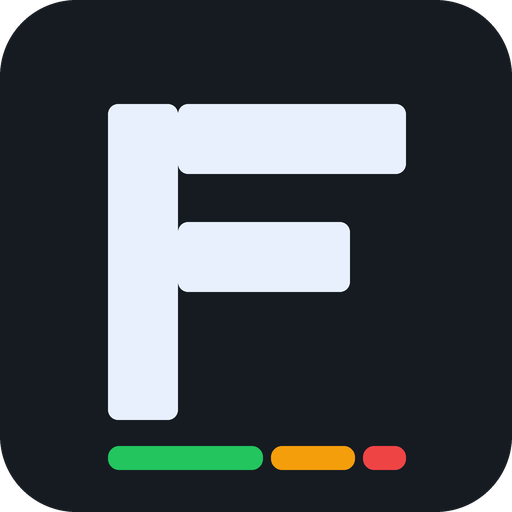
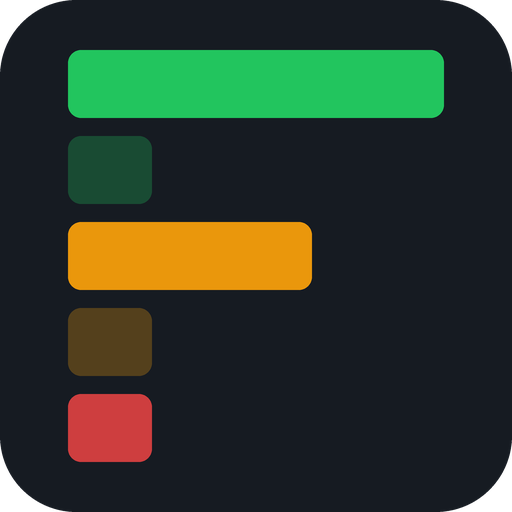
Add files via upload

diff --git a/index.html b/index.html
@@ -524,12 +524,11 @@
     <div class="brand">
       <svg width="30" height="30" viewBox="0 0 512 512" xmlns="http://www.w3.org/2000/svg" style="flex-shrink:0" aria-label="Framework">
         <rect width="512" height="512" rx="76" fill="#161b22"/>
-        <rect x="108" y="104" width="70" height="316" rx="10" fill="#e8f0fe"/>
-        <rect x="178" y="104" width="228" height="70" rx="10" fill="#e8f0fe"/>
-        <rect x="178" y="222" width="172" height="70" rx="10" fill="#e8f0fe"/>
-        <rect x="108" y="446" width="155" height="24" rx="11" fill="#22c55e"/>
-        <rect x="271" y="446" width="85" height="24" rx="11" fill="#f59e0b"/>
-        <rect x="364" y="446" width="42" height="24" rx="11" fill="#ef4444"/>
+        <rect x="68" y="50"  width="376" height="68" rx="13" fill="#22C55E"/>
+        <rect x="68" y="136" width="84"  height="68" rx="13" fill="#194B33"/>
+        <rect x="68" y="222" width="244" height="68" rx="13" fill="#EA970C"/>
+        <rect x="68" y="308" width="84"  height="68" rx="13" fill="#54401C"/>
+        <rect x="68" y="394" width="84"  height="68" rx="13" fill="#CE3E3F"/>
       </svg>
       <div class="brand-name">Framework</div>
     </div>
@@ -959,8 +958,10 @@ function load() {
         billing: p.settings?.billingModel || '',
         startDate: p.settings?.startDate || '',
         pm: p.settings?.pm || '',
+        currentPhase: null,
         createdAt: today(),
-        tracker: p.tracker || {}
+        tracker: p.tracker || {},
+        history: []
       };
       S.projects[id] = proj;
       S.activeProjectId = id;
@@ -1058,7 +1059,7 @@ function stalenessDetails(pid, artId) {
   // Check phase-past flag
   const art = ARTS.find(a => a.id === artId);
   const p   = getProject(pid);
-  if (art && p?.currentPhase) {
+  if (art && p && p.currentPhase) {
     const fp = folderPhase(art.folder);
     if (fp && fp < p.currentPhase && !['Complete','Current','N/A','Stale'].includes(stored)) {
       return { overdueDays:0, dueSoon:false, phasePast:true };
@@ -1109,16 +1110,21 @@ function logChange(pid, artId, changes) {
       field: ch.field, from: ch.from||'', to: ch.to||''
     });
   });
-  if (p.history.length > 500) p.history.length = 500;
+  if (p.history.length > 500) p.history = p.history.slice(0, 500);
 }
 
 function fmtTs(ts) {
-  const d = new Date(ts);
+  if (!ts) return '—';
+  const d    = new Date(ts);
+  if (isNaN(d.getTime())) return '—';
   const diff = Math.floor((Date.now() - d.getTime()) / 86400000);
   if (diff === 0) return 'Today';
   if (diff === 1) return 'Yesterday';
   if (diff < 7)   return `${diff}d ago`;
-  return d.toLocaleDateString('en-US', { month:'short', day:'numeric' });
+  const opts = diff > 335
+    ? { month:'short', day:'numeric', year:'numeric' }
+    : { month:'short', day:'numeric' };
+  return d.toLocaleDateString('en-US', opts);
 }
 
 // ═══════════════════════════════════════════════════════
@@ -1224,8 +1230,8 @@ function effectiveStatus(pid, artId) {
   const _art = ARTS.find(a => a.id === artId);
   const _p   = getProject(pid);
   if (_art && _p && _p.currentPhase) {
-    const fp = folderPhase(_art.folder);
-    if (fp && fp < _p.currentPhase && !['Complete','Current','N/A','Stale'].includes(stored))
+    const _fp = folderPhase(_art.folder);
+    if (_fp && _fp < _p.currentPhase && !['Complete','Current','N/A','Stale'].includes(stored))
       return 'Stale';
   }
   if (stored === 'Stale' || stored === 'Not Started') return stored;
@@ -1361,19 +1367,19 @@ function renderTracker() {
       const e    = entry(a.id);
       const effS = effectiveStatus(S.activeProjectId, a.id);
       if (fStatus && effS !== fStatus) return false;
-      const _eh = effectiveHealth(S.activeProjectId, a.id);
-      const _ds = _eh === "amber" && stalenessDetails(S.activeProjectId, a.id).dueSoon;
-      if (fHealth === "due-soon" && !_ds) return false;
-      if (fHealth && fHealth !== "due-soon" && _eh !== fHealth) return false;
+      const _eh       = effectiveHealth(S.activeProjectId, a.id);
+      const _isDueSoon = _eh === 'amber' && stalenessDetails(S.activeProjectId, a.id).dueSoon;
+      if (fHealth === 'due-soon'  && !_isDueSoon) return false;
+      if (fHealth && fHealth !== 'due-soon' && _eh !== fHealth) return false;
       return true;
     });
     if (!arts.length) return;
     total += arts.length;
 
     const allArts = ARTS.filter(a => a.folder === folder);
-    const fg = allArts.filter(a => health(effectiveStatus(S.activeProjectId, a.id))==='green').length;
-    const fa = allArts.filter(a => health(effectiveStatus(S.activeProjectId, a.id))==='amber').length;
-    const fr = allArts.filter(a => health(effectiveStatus(S.activeProjectId, a.id))==='red').length;
+    const fg = allArts.filter(a => effectiveHealth(S.activeProjectId, a.id)==='green').length;
+    const fa = allArts.filter(a => effectiveHealth(S.activeProjectId, a.id)==='amber').length;
+    const fr = allArts.filter(a => effectiveHealth(S.activeProjectId, a.id)==='red').length;
 
     const col = S.ui.collapsed[folder];
     const _fp = folderPhase(folder);
@@ -1948,15 +1954,21 @@ function initProjectTracker(pid) {
   const p = getProject(pid);
   if (!p) return;
   p.tracker = {};
-  const td = today();
+  const cur = p.currentPhase || 0;   // 0 = no phase set
   ARTS.forEach(a => {
-    p.tracker[a.id] = {
-      status:      projectApplies(pid, a) ? 'Future' : 'N/A',
-      lastUpdated: td,
-      url:         '',
-      cadence:     '',
-      notes:       '',
-    };
+    const fp      = folderPhase(a.folder); // 1–6 for phase folders, null for always-active
+    const applies = projectApplies(pid, a);
+    let status;
+    if (!applies) {
+      status = 'N/A';
+    } else if (fp) {
+      // Phase folders 01–06: Future until the project reaches that phase
+      status = (cur && fp <= cur) ? 'Not Started' : 'Future';
+    } else {
+      // Always-active folders 07–17: start as Not Started
+      status = 'Not Started';
+    }
+    p.tracker[a.id] = { status, lastUpdated: '', url: '', cadence: '', notes: '' };
   });
 }
 
